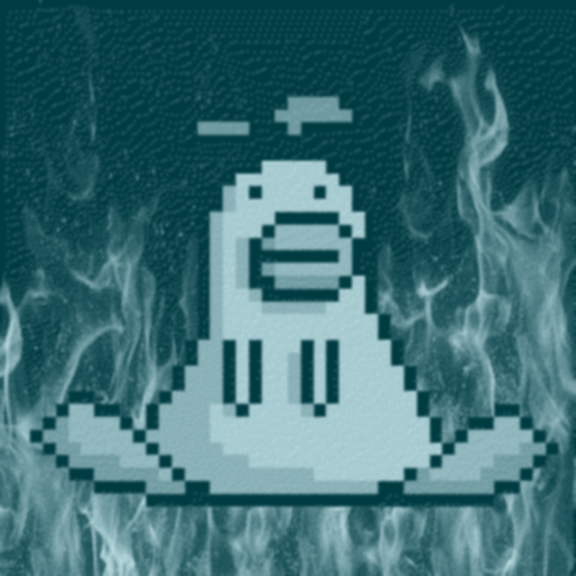
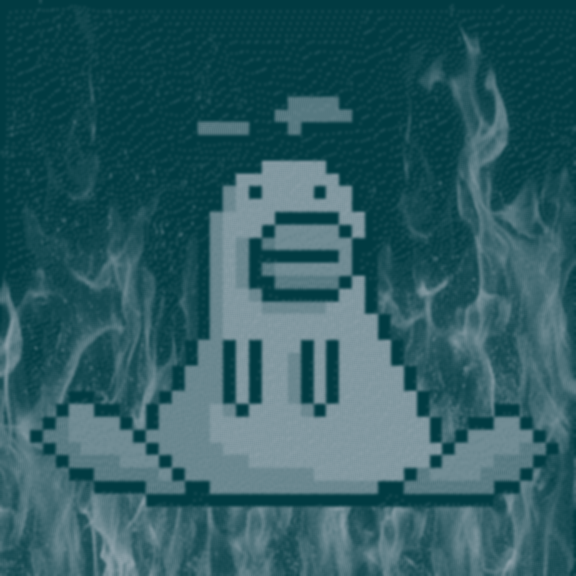
Adjusted Project Styling

diff --git a/src/components/Projects.svelte b/src/components/Projects.svelte
@@ -25,7 +25,7 @@
         <img src="dithered/codagotchi3.png" alt="codagotchi" class="project-image">
     </div>
     <div class="header-container">
-        <p class="title">Codagotchi</p>
+        <p class="title">codagotchi</p>
         <span class="badge">SVELTE</span>
         <span class="badge">TYPESCRIPT</span>
         <span class="badge">FIREBASE</span>
@@ -75,52 +75,42 @@
     .dotBoxContainer{
         height: 100%;
         overflow-y: auto;
-        scrollbar-width: thin;
+        scrollbar-width: none; /* Hide scrollbar for Firefox */
         box-sizing: border-box;
         display: flex;
         flex-direction: column;
         width: 100%;
         align-items: center;
         padding-bottom: 3%;
+        padding-left: 1%;
+        padding-right: 1%;
+        padding-top: 1%;
     }
 
-    /* Custom scrollbar styling for webkit browsers */
+    /* Hide scrollbar for webkit browsers */
     .dotBoxContainer::-webkit-scrollbar {
-        width: 8px;
-    }
-
-    .dotBoxContainer::-webkit-scrollbar-track {
-        background: transparent;
-    }
-
-    .dotBoxContainer::-webkit-scrollbar-thumb {
-        background-color: rgba(var(--text-color), 0.6);
-        border-radius: 4px;
-        transition: background-color 50ms ease-out;
-    }
-
-    .dotBoxContainer::-webkit-scrollbar-thumb:hover {
-        background-color: rgba(var(--text-color), 0.8);
+        display: none;
     }
 
     .project-image {
         max-height: calc(14em * var(--font-size-scale));
-        max-width: 100%;
-        width: auto;
         height: auto;
         object-fit: contain;
         transition: filter 50ms ease-out;
         position: relative;
         z-index: 1;
+        flex: 1;
+        min-width: 0; /* Prevents flex items from overflowing */
     }
 
     .image-group {
         display: flex;
         gap: 1em;
-        margin: 1em 0;
+        margin: .25em 0;
         position: relative;
         z-index: 1;
-        justify-content: flex-start;
+        justify-content: stretch;
         align-items: flex-start;
+        width: 100%;
     }
 </style>

diff --git a/src/components/Home.svelte b/src/components/Home.svelte
@@ -18,14 +18,6 @@
         <p>welcome to my website</p>
         <p></p>
         <br>
-        <br>
-        <br>
-        <br>
-        <br>
-        <br>
-        <br>
-        <br>
-        <br>
         <p class="center-text">this site is part of the <a class="link underline" href="#" on:click={() => {}}>M0SS</a> webring</p>
         <p class="center-text">
             <a class="link underline" href="#" on:click={() => {}}>prev</a> 

diff --git a/scripts/dither-images.js b/scripts/dither-images.js
@@ -7,7 +7,7 @@ import { dirname } from 'path';
 // Color configuration
 const DITHER_COLORS = {
     dark: '#013B42',   // Dark teal
-    light: '#DCF9FF'   // Light blue
+    light: '#ABB6BF'   // Light blue
 };
 
 // Blur amount (pixels)
